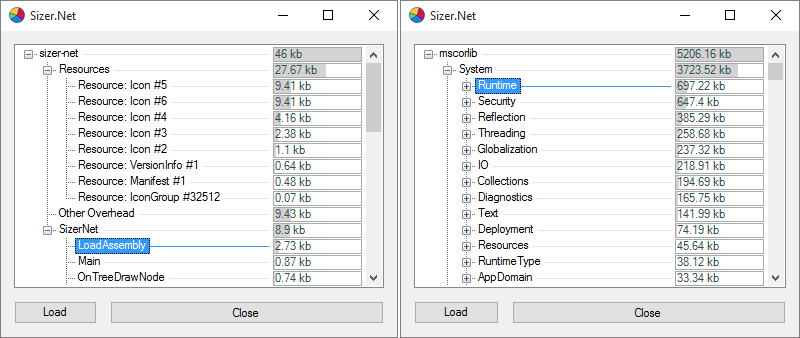
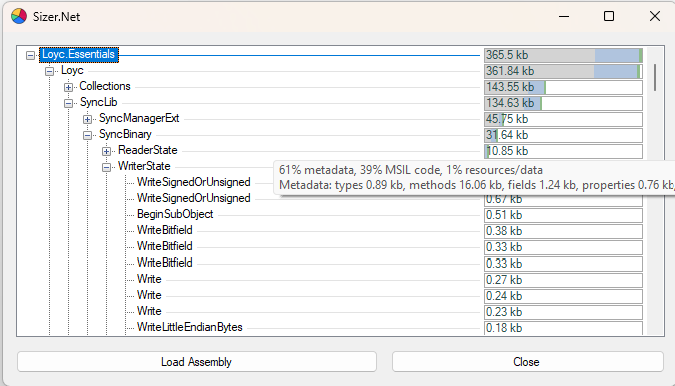
Enhance tooltips and update README
- Use 3 colors for MSIL, metadata and "resources/data"
- Use special workaround code to show tooltips on the bars, not the names

> I'm told this tool measures sizes via .NET reflection? How the heck does
it do that? I would not think that the On-Disk size of things is available
through .Net Reflection.

Opus4.8: Your skepticism is exactly right — and the answer is that it's **partly reflection, partly not, and the sizes are partly estimated rather than measured**. Here's the actual story from `sizer-net.cs`:

## The baseline is a plain file-size call, not reflection

The on-disk total comes from the filesystem, not reflection:

```csharp
AssemblySize = new FileInfo(assembly.Location).Length;   // sizer-net.cs:177
```

Reflection is then used to *attribute* portions of that byte total to individual things (namespaces, types, methods…). Whatever can't be attributed is dumped into an "Other Overhead" node (`AssemblySize - Total`). So the top-line number is real on-disk size; the breakdown underneath is reflection's job.

## How reflection attributes the bytes — three different tricks

**1. IL code size — genuinely exact.** This is the one thing reflection *can* give you precisely, and it's the part you probably didn't expect exists:

```csharp
var mb = mi.GetMethodBody();
lenCode += mb.GetILAsByteArray().Length;   // sizer-net.cs:~310
```

`GetMethodBody().GetILAsByteArray()` hands you the actual MSIL bytes of each method, so per-method code size is measured, not guessed.
[…]

diff --git a/sizer-net.cs b/sizer-net.cs
@@ -58,6 +58,8 @@ static class SizerNet
     static Form f;
     static TreeView tv;
     static int TreeViewScrollX = 0;
+    static ToolTip BarToolTip = new ToolTip();
+    static TreeNode BarToolTipNode = null;
     static string AssemblyPath;
     static long AssemblySize;
     static List<string> DependencyDirs = new List<string>(), IgnoredDependencies = new List<string>();
@@ -78,10 +80,13 @@ static class SizerNet
         tv.Location = new Point(13, 13);
         tv.Size = new Size(f.ClientSize.Width - 13 - 13, f.ClientSize.Height - 13 - 23 - 13 - 13);
         tv.DrawMode = TreeViewDrawMode.OwnerDrawText;
-        tv.ShowNodeToolTips = true;
+        tv.ShowNodeToolTips = false; //tooltip is shown manually when the mouse is over the size bar (see OnTreeMouseMove)
         tv.Anchor = (AnchorStyles)(AnchorStyles.Top | AnchorStyles.Bottom | AnchorStyles.Left | AnchorStyles.Right);
         tv.Resize += (object sender, EventArgs e) => { tv.Invalidate(); };
         tv.DrawNode += OnTreeDrawNode;
+        BarToolTip.AutoPopDelay = 32767;
+        tv.MouseMove += OnTreeMouseMove;
+        tv.MouseLeave += (object sender, EventArgs e) => { BarToolTip.Hide(tv); BarToolTipNode = null; };
         var cms = new ContextMenuStrip();
         cms.Items.Add("Copy to clipboard", null, (object sender, EventArgs e) => { if (tv.SelectedNode != null) Clipboard.SetText(GetSubtreeText(tv.SelectedNode)); });
         cms.Opening += (object sender, System.ComponentModel.CancelEventArgs e) =>
@@ -141,13 +146,36 @@ static class SizerNet
         float pct = (float)ns.Total / AssemblySize;
         int w = tv.ClientSize.Width / 4, x = tv.ClientSize.Width - w - 5, size = (int)(w * pct);
         int sizeMeta = (ns.Total == 0 ? 0 : (int)(size * ((float)ns.Metadata / ns.Total)));
-        e.Graphics.FillRectangle(Brushes.White,          x,            e.Bounds.Top + 1, w    + 1,        e.Bounds.Height - 2);
-        e.Graphics.FillRectangle(Brushes.LightSteelBlue, x,            e.Bounds.Top + 1, sizeMeta + 1,    e.Bounds.Height - 2);
-        e.Graphics.FillRectangle(Brushes.LightGray,      x + sizeMeta, e.Bounds.Top + 1, size - sizeMeta + 1, e.Bounds.Height - 2);
+        int sizeCode = (ns.Total == 0 ? 0 : (int)(size * ((float)ns.Sizes[NodeSize.ILCode] / ns.Total)));
+        e.Graphics.FillRectangle(Brushes.White,          x,                       e.Bounds.Top + 1, w    + 1,                     e.Bounds.Height - 2);
+        e.Graphics.FillRectangle(Brushes.LightGray,      x,                       e.Bounds.Top + 1, sizeMeta + 1,                 e.Bounds.Height - 2);
+        e.Graphics.FillRectangle(Brushes.LightSteelBlue, x + sizeMeta,            e.Bounds.Top + 1, sizeCode + 1,                 e.Bounds.Height - 2);
+        e.Graphics.FillRectangle(Brushes.DarkSeaGreen,   x + sizeMeta + sizeCode, e.Bounds.Top + 1, size - sizeMeta - sizeCode + 1, e.Bounds.Height - 2);
         e.Graphics.DrawRectangle(Pens.DarkGray,          x,            e.Bounds.Top + 1, w    + 1,        e.Bounds.Height - 2);
         e.Graphics.DrawString(FormatKb(ns.Total), tv.Font, Brushes.DarkSlateGray, x, e.Bounds.Top + 1);
         e.Graphics.DrawLine((e.State & TreeNodeStates.Selected) != 0 ? SystemPens.Highlight : SystemPens.ControlLight, e.Bounds.Left + 5, e.Bounds.Top + e.Bounds.Height/2, x - 5, e.Bounds.Top + e.Bounds.Height/2);
         if (tv.Nodes[0].Bounds.X != TreeViewScrollX) { TreeViewScrollX = tv.Nodes[0].Bounds.X; tv.Invalidate(); }
+    }
+
+    //shows the size breakdown tooltip only while the mouse is over the owner-drawn size bar (same geometry as OnTreeDrawNode)
+    static void OnTreeMouseMove(object sender, MouseEventArgs e)
+    {
+        int w = tv.ClientSize.Width / 4, x = tv.ClientSize.Width - w - 5;
+        TreeNode n = tv.Nodes.Count == 0 ? null : tv.GetNodeAt(e.X, e.Y);
+        bool overBar = n != null && !string.IsNullOrEmpty(n.ToolTipText) && e.X >= x && e.X <= x + w;
+        if (overBar)
+        {
+            if (n != BarToolTipNode)
+            {
+                BarToolTipNode = n;
+                BarToolTip.Show(n.ToolTipText, tv, e.X + 16, e.Y + 20);
+            }
+        }
+        else if (BarToolTipNode != null)
+        {
+            BarToolTip.Hide(tv);
+            BarToolTipNode = null;
+        }
     }
 
     //estimated numbers for byte size of overhead introduced by various things

diff --git a/README.md b/README.md
@@ -1,25 +1,47 @@
 # Sizer.Net
 This is a tool that shows the size of things (types, methods, static arrays, etc.) in a .NET assembly.
 
-![Screenshot](https://raw.githubusercontent.com/schellingb/sizer-net/master/README.png)
+![Screenshot](README.png)
 
 ## Download
+
 You can find a binary download under the [Releases page](https://github.com/schellingb/sizer-net/releases/latest).
 
+## Additions in qwertie's fork (by Fable5)
+
+- Size breakdown by category in the size bars and in tooltip on those bars:
+  - **MSIL code** (blue) — the actual byte instructions of methods
+  - **Metadata** (gray) — type/field/method table overhead, name strings and custom attributes
+  - **Resources / data** (green) — static field data, arrays and embedded resources
+  - Plus a second tooltip line that breaks the metadata down by kind: types, methods, fields, properties, events, custom attributes and other.
+- Automatic dependency resolution: When an assembly references a dependency that can't be found, the tool now probes the standard .NET locations for it before asking you — the global assembly cache, .NET Framework install and reference-assembly directories (including Facades), the .NET Core/5+ shared frameworks and the NuGet package cache. Candidates are verified by reading their assembly metadata, preferring exact version and public-key-token matches. Runtime assemblies that forward types to `System.Private.CoreLib` are rejected so they don't cause every type to fail loading; the file dialog only appears if no suitable candidate is found.
+- Explanation of unresolved types: if some types still can't be evaluated, a dialog lists every failed type by name together with the loader's reason for each one, and offers tailored advice — for example, where to find a missing dependency, or a suggestion to analyze a .NET Framework/Standard build when the failures are caused by types that only exist on the .NET Core runtime (such as `Span<T>` and `Memory<T>`).
+- Copy to clipboard: right-click any tree node to copy its subtree to the clipboard as tab-indented text:
+
+```
+SelectedItem: 2.88 kb (30% metadata)
+	SubItem1: 1.4 kb
+	SubItem2: 1.1 kb
+```
+
 ## Usage
+
 On launch it shows a file selection dialog with which you can load any kind of .NET assembly (exe or dll).  
 Once loaded, it shows the things stored in the assembly in a tree view with the accumulated size on the right.  
 The usual structure is:  
 [assembly name] → [namespace] → [class] → [thing]
 
 ## Command line
+
 If launched via command line, it takes a path to an exe or dll file as the first argument.
 
 ## Accuracy
-The tool is not fully accurate as it uses the simple approach of inspection via .NET's built-in reflection.  
+
+The tool is **not fully accurate** as it uses the simple approach of inspection via .NET's built-in reflection.  
 While the size of actual byte instructions of functions is correct, overhead from types, fields, etc. is estimated.
 
 A more accurate method would be to use a custom .NET metadata reader library like dnlib that could read byte-accurate information.
 
 ## Unlicense
+
 Sizer.Net is available under the [Unlicense](http://unlicense.org/).